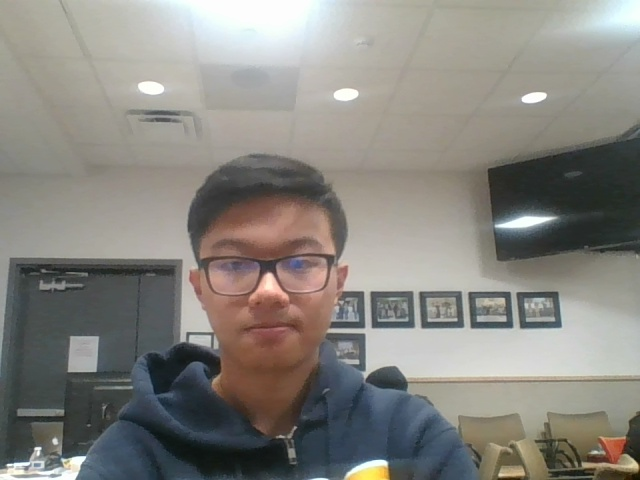
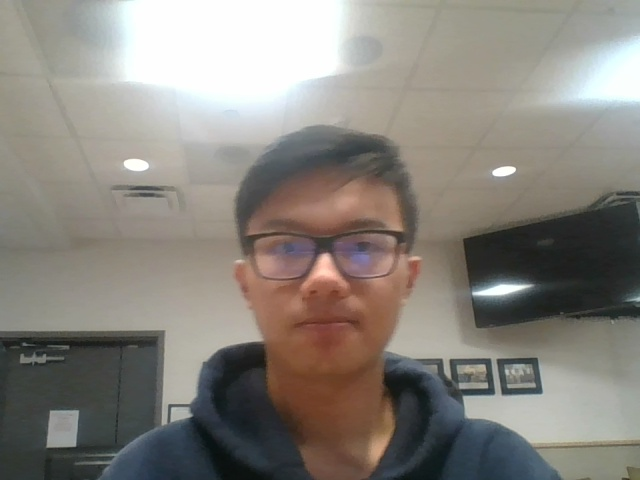
fixed camera input to 0 on board main

diff --git a/board_main.py b/board_main.py
@@ -16,7 +16,7 @@ cascPath = "haarcascade_frontalface_default.xml"
 faceCascade = cv2.CascadeClassifier(cascPath)
 log.basicConfig(filename='webcam.log',level=log.INFO)
 
-video_capture = cv2.VideoCapture(1)
+video_capture = cv2.VideoCapture(0)
 # anterior = 0
 
 subjects = ["", "1111", "2222", "3333", "4444", "5555", "6666" ] 

diff --git a/main.py b/main.py
@@ -16,7 +16,7 @@ cascPath = "haarcascade_frontalface_default.xml"
 faceCascade = cv2.CascadeClassifier(cascPath)
 log.basicConfig(filename='webcam.log',level=log.INFO)
 
-video_capture = cv2.VideoCapture(1)
+video_capture = cv2.VideoCapture(0)
 # anterior = 0
 
 subjects = ["", "1111", "2222", "3333", "4444", "5555", "6666" ] 
